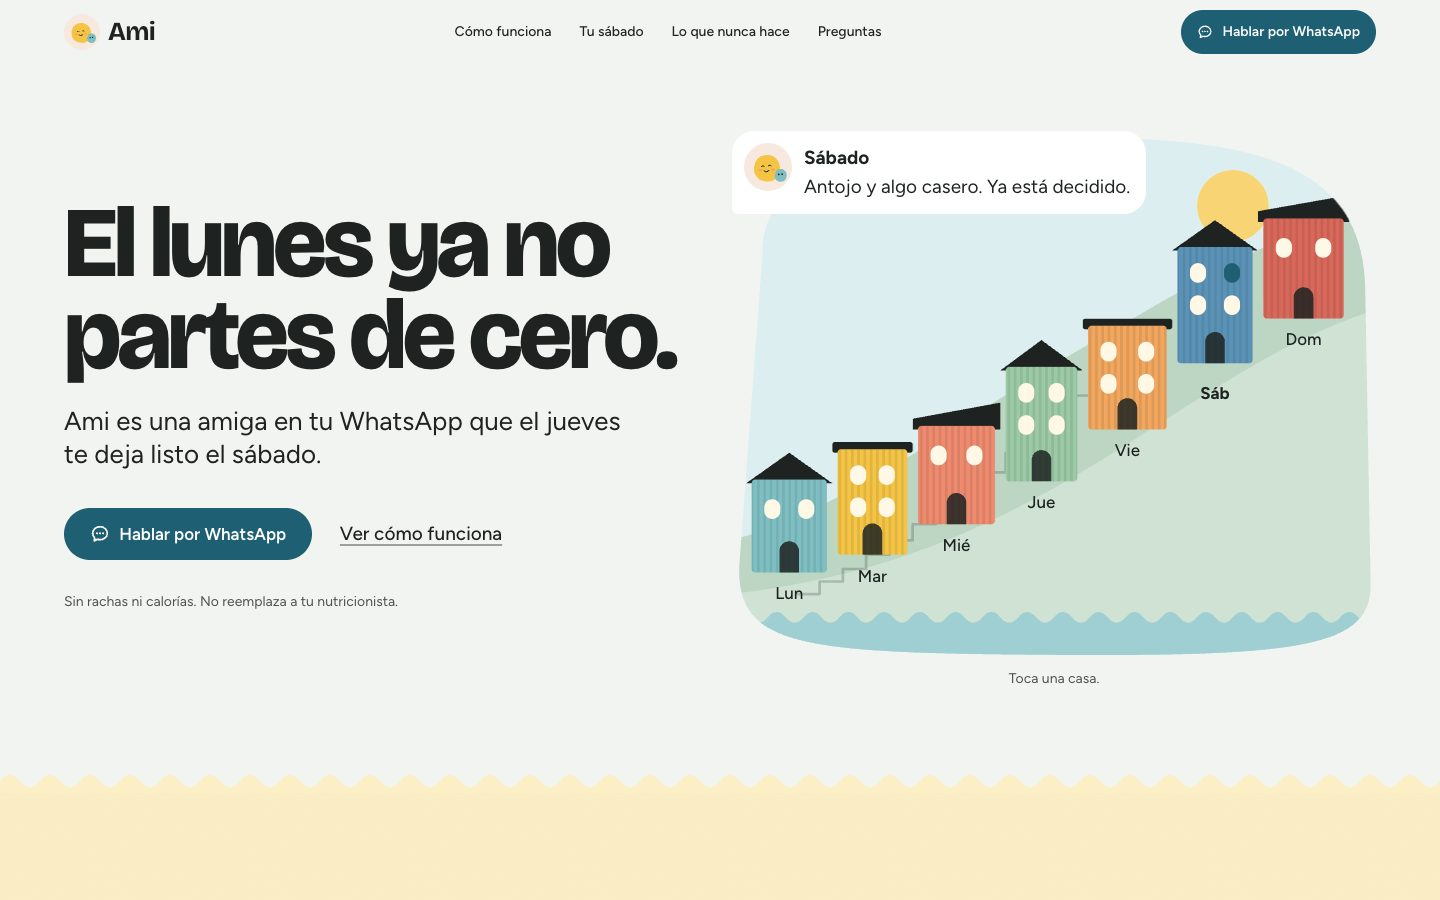
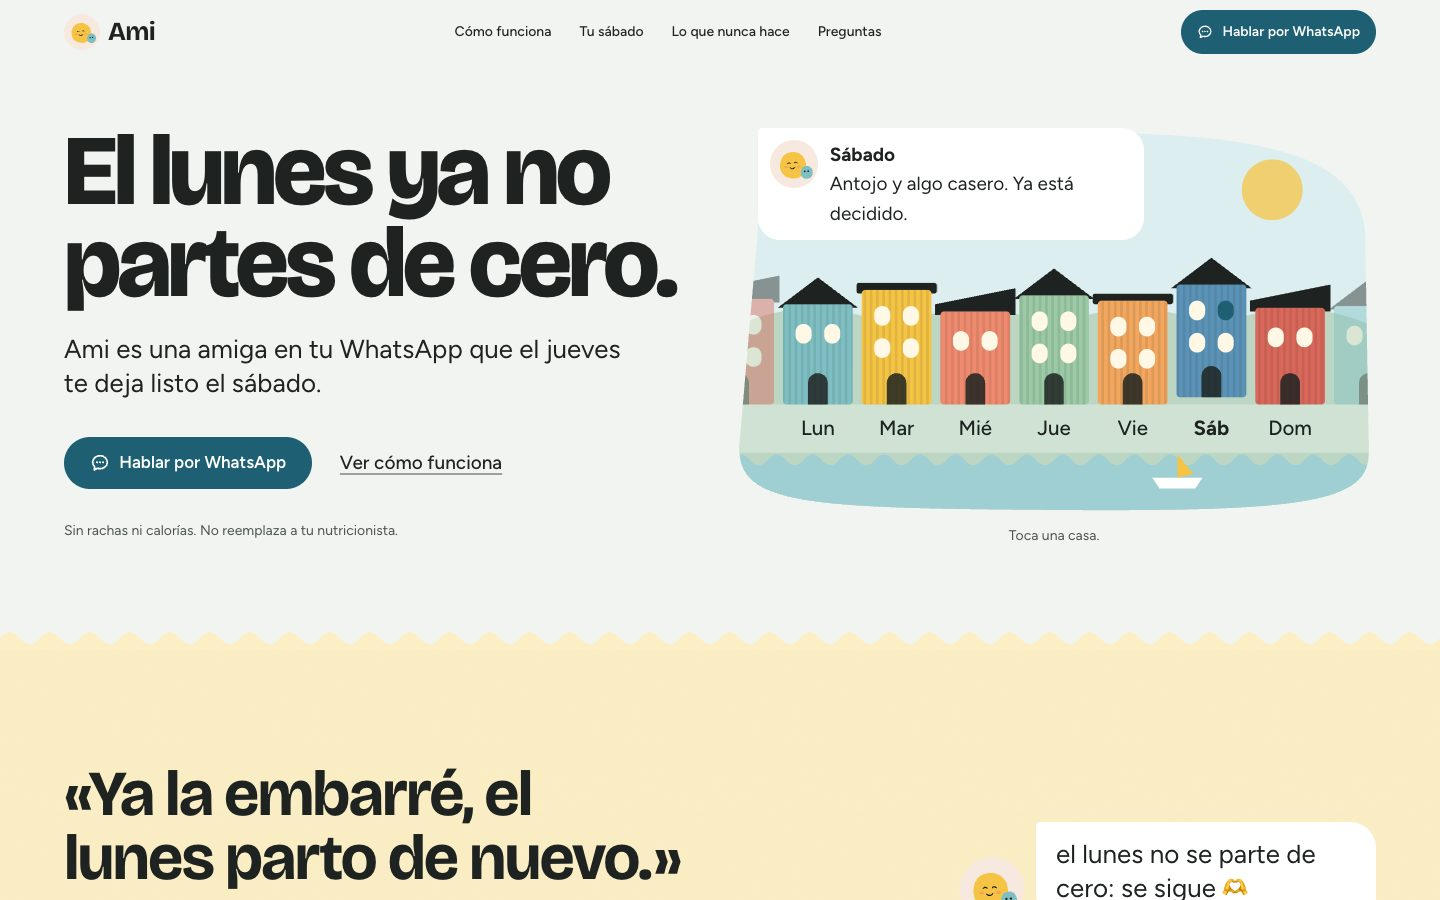
feat(landing): level waterfront week instead of a rising hill
The diagonal hill read as a climb and dropped Sunday back to Monday at
the bottom. Seven houses now sit in a level row by the sea, with
unnamed neighbours at both edges so the week runs on. Sunday's note no
longer frames Monday as a restart.

diff --git a/landing/src/components/BordeCostero.tsx b/landing/src/components/BordeCostero.tsx
@@ -2,8 +2,10 @@ import { useState } from "react";
 import { AvatarAmi } from "./Avatar";
 
 /**
- * La semana como un cerro de Valparaíso: siete casas que suben, una por día.
- * El viernes y el sábado son casas como las otras, y el cerro nunca baja.
+ * La semana como el borde costero de Valparaíso: siete casas en fila, a la
+ * misma altura, frente al mar. No hay subida ni cima: el sábado y el domingo
+ * son casas como las otras, y a los lados asoman casas sin nombre porque la
+ * semana sigue de largo (el domingo pasa al lunes sin salto).
  * Cada casa es un botón: al tocarla dice qué le toca a ese día en el plan.
  */
 type Casa = {
@@ -18,18 +20,26 @@ type Casa = {
   nota: string;
 };
 
+const BASE = 318;
+
 const CASAS: Casa[] = [
-  { dia: "Lunes", corto: "Lun", x: 22, base: 506, ancho: 84, alto: 104, color: "var(--casa-celeste)", techo: "dos-aguas", nota: "Tu pauta, como siempre." },
-  { dia: "Martes", corto: "Mar", x: 118, base: 486, ancho: 78, alto: 118, color: "var(--casa-amarillo)", techo: "plano", nota: "Tu pauta, a tu ritmo." },
-  { dia: "Miércoles", corto: "Mié", x: 208, base: 452, ancho: 86, alto: 110, color: "var(--casa-rosado)", techo: "media", nota: "Tu pauta. Un día normal, y está bien." },
-  { dia: "Jueves", corto: "Jue", x: 306, base: 404, ancho: 80, alto: 128, color: "var(--casa-menta)", techo: "dos-aguas", nota: "Dejas listo el sábado, con la cabeza fresca." },
-  { dia: "Viernes", corto: "Vie", x: 398, base: 346, ancho: 88, alto: 116, color: "var(--casa-naranja)", techo: "plano", nota: "Carrete con tus amigas. Es parte del plan." },
-  { dia: "Sábado", corto: "Sáb", x: 498, base: 282, ancho: 84, alto: 130, color: "var(--casa-azul)", techo: "dos-aguas", nota: "Antojo y algo casero. Ya está decidido." },
-  { dia: "Domingo", corto: "Dom", x: 594, base: 222, ancho: 90, alto: 112, color: "var(--casa-rojo)", techo: "media", nota: "Sigues donde quedaste. No hay cuenta que limpiar." },
+  { dia: "Lunes", corto: "Lun", x: 57, base: BASE, ancho: 78, alto: 112, color: "var(--casa-celeste)", techo: "dos-aguas", nota: "Tu pauta, como siempre." },
+  { dia: "Martes", corto: "Mar", x: 145, base: BASE, ancho: 78, alto: 128, color: "var(--casa-amarillo)", techo: "plano", nota: "Tu pauta, a tu ritmo." },
+  { dia: "Miércoles", corto: "Mié", x: 233, base: BASE, ancho: 78, alto: 104, color: "var(--casa-rosado)", techo: "media", nota: "Tu pauta. Un día normal, y está bien." },
+  { dia: "Jueves", corto: "Jue", x: 321, base: BASE, ancho: 78, alto: 122, color: "var(--casa-menta)", techo: "dos-aguas", nota: "Dejas listo el sábado, con la cabeza fresca." },
+  { dia: "Viernes", corto: "Vie", x: 409, base: BASE, ancho: 78, alto: 116, color: "var(--casa-naranja)", techo: "plano", nota: "Carrete con tus amigas. Es parte del plan." },
+  { dia: "Sábado", corto: "Sáb", x: 497, base: BASE, ancho: 78, alto: 126, color: "var(--casa-azul)", techo: "dos-aguas", nota: "Antojo y algo casero. Ya está decidido." },
+  { dia: "Domingo", corto: "Dom", x: 585, base: BASE, ancho: 78, alto: 108, color: "var(--casa-rojo)", techo: "media", nota: "Un día tranquilo. Mañana sigues igual que siempre." },
+];
+
+/** Casas sin nombre a los lados: la semana sigue antes y después. */
+const VECINAS: Casa[] = [
+  { dia: "", corto: "", x: -31, base: BASE, ancho: 78, alto: 118, color: "var(--casa-rojo)", techo: "media", nota: "" },
+  { dia: "", corto: "", x: 673, base: BASE, ancho: 78, alto: 110, color: "var(--casa-celeste)", techo: "dos-aguas", nota: "" },
 ];
 
 const ANCHO = 720;
-const ALTO = 600;
+const ALTO = 440;
 
 function Techo({ c }: { c: Casa }) {
   const y = c.base - c.alto;
@@ -75,7 +85,7 @@ function Ventanas({ c, encendida }: { c: Casa; encendida: boolean }) {
   );
 }
 
-export function Cerro() {
+export function BordeCostero() {
   const [activa, setActiva] = useState(5);
   const casa = CASAS[activa];
 
@@ -88,41 +98,38 @@ export function Cerro() {
           </pattern>
           {/* La vista recortada como una mancha, no como un rectángulo. */}
           <clipPath id="vista">
-            <path d="M34 150 C 30 60, 150 22, 380 20 C 600 18, 706 56, 708 190 L 714 520 C 714 588, 640 600, 360 598 C 80 596, 6 590, 8 500 Z" />
+            <path d="M30 110 C 28 40, 150 14, 380 14 C 600 14, 704 40, 708 130 L 712 372 C 712 428, 640 438, 360 436 C 80 434, 8 430, 8 366 Z" />
           </clipPath>
         </defs>
 
         <g clipPath="url(#vista)">
           <rect width={ANCHO} height={ALTO} fill="var(--vista)" />
-          {/* Sol de día, luna de noche: el mismo círculo cambia con el tema. */}
-          <circle cx="560" cy="96" r="40" fill="var(--ventana)" />
-          <circle cx="560" cy="96" r="40" fill="var(--casa-amarillo)" opacity="0.7" />
+          <circle cx="604" cy="78" r="34" fill="var(--casa-amarillo)" opacity="0.75" />
 
-          {/* El cerro de atrás y el de adelante. */}
-          <path d="M0 470 C 140 430, 260 330, 400 250 C 520 180, 620 120, 720 96 L720 600 L0 600 Z" fill="var(--cerro-2)" />
-          <path d="M0 530 C 150 512, 260 470, 380 400 C 500 330, 600 250, 720 212 L720 600 L0 600 Z" fill="var(--cerro)" />
-
-          {/* La escalera que sube entre las casas. */}
+          {/* Los cerros de atrás: lomas parejas, ninguna más alta que otra. */}
           <path
-            d="M72 530 h26 v-14 h26 v-14 h26 v-16 h26 v-16 h26 v-18 h26 v-18 h26 v-20 h26 v-20 h26 v-22 h26 v-22 h26 v-20 h26 v-22 h26 v-20 h26 v-18 h26 v-18"
-            fill="none"
-            stroke="var(--tinta)"
-            strokeOpacity="0.22"
-            strokeWidth="3"
-            strokeLinejoin="round"
+            d={`M0 232 ${Array.from({ length: 4 }, (_, k) => `Q${k * 180 + 90} 190 ${k * 180 + 180} 232`).join(" ")} L720 440 L0 440 Z`}
+            fill="var(--cerro-2)"
           />
+
+          {/* El paseo frente al mar, de lado a lado. */}
+          <rect x="0" y={BASE} width={ANCHO} height="54" fill="var(--cerro)" />
+
+          {VECINAS.map((c) => (
+            <g key={c.x} opacity="0.45">
+              <Techo c={c} />
+              <rect x={c.x} y={c.base - c.alto} width={c.ancho} height={c.alto} rx={4} fill={c.color} />
+              <Ventanas c={c} encendida={false} />
+            </g>
+          ))}
 
           {CASAS.map((c, i) => {
             const sel = i === activa;
             return (
-              <g
-                key={c.dia}
-                className="casa-entra"
-                style={{ ["--i" as string]: i }}
-              >
+              <g key={c.dia} className="casa-entra" style={{ ["--i" as string]: i }}>
                 <g
                   style={{
-                    transform: sel ? "translateY(-10px)" : "none",
+                    transform: sel ? "translateY(-8px)" : "none",
                     transition: "transform 380ms var(--ease-salto)",
                   }}
                 >
@@ -131,25 +138,20 @@ export function Cerro() {
                   <rect x={c.x} y={c.base - c.alto} width={c.ancho} height={c.alto} rx={4} fill="url(#calamina)" />
                   <Ventanas c={c} encendida={sel} />
                 </g>
-                <text
-                  x={c.x + c.ancho / 2}
-                  y={c.base + 30}
-                  textAnchor="middle"
-                  fontSize="19"
-                  fontWeight={sel ? 700 : 500}
-                  fill="var(--tinta)"
-                >
+                <text x={c.x + c.ancho / 2} y={c.base + 34} textAnchor="middle" fontSize="23" fontWeight={sel ? 700 : 500} fill="var(--tinta)">
                   {c.corto}
                 </text>
               </g>
             );
           })}
 
-          {/* El mar, con el mismo borde de calamina. */}
+          {/* El mar, con el borde de calamina, y un bote. */}
           <path
-            d={`M0 556 ${Array.from({ length: 19 }, (_, k) => `Q${k * 40 + 10} 544 ${k * 40 + 20} 556 T${k * 40 + 40} 556`).join(" ")} L720 600 L0 600 Z`}
+            d={`M0 380 ${Array.from({ length: 18 }, (_, k) => `Q${k * 40 + 10} 368 ${k * 40 + 20} 380 T${k * 40 + 40} 380`).join(" ")} L720 440 L0 440 Z`}
             fill="var(--mar)"
           />
+          <path d="M470 400h56l-8 12h-40z" fill="var(--superficie)" />
+          <path d="M498 400v-26l18 22z" fill="var(--casa-amarillo)" />
         </g>
       </svg>
 
@@ -169,7 +171,7 @@ export function Cerro() {
               left: `${((c.x - 8) / ANCHO) * 100}%`,
               top: `${((c.base - c.alto - 34) / ALTO) * 100}%`,
               width: `${((c.ancho + 16) / ANCHO) * 100}%`,
-              height: `${((c.alto + 72) / ALTO) * 100}%`,
+              height: `${((c.alto + 78) / ALTO) * 100}%`,
             }}
           />
         ))}
@@ -177,7 +179,7 @@ export function Cerro() {
 
       <figcaption
         aria-live="polite"
-        className="absolute top-[2%] left-0 flex max-w-[66%] items-start gap-3 rounded-[1.4rem] rounded-bl-md bg-superficie py-3 pr-4 pl-3 text-chico sm:text-cuerpo"
+        className="mt-3 flex items-start gap-3 rounded-[4px_22px_22px_22px] bg-superficie py-3 pr-4 pl-3 text-chico sm:absolute sm:top-[2%] sm:left-[4%] sm:mt-0 sm:max-w-[60%] sm:text-cuerpo"
       >
         <AvatarAmi className="size-10 shrink-0 sm:size-12" />
         <span>

diff --git a/landing/src/index.css b/landing/src/index.css
@@ -3,11 +3,10 @@
 @import "@fontsource-variable/figtree";
 
 /* ---------------------------------------------------------------------------
-   «Cerro de calamina»
-   La semana como un cerro de Valparaíso: siete casas de colores, y el finde es
-   una casa más, no un hoyo. Fondo de bruma de puerto, tinta azul bahía, campos
-   del color de las casas y un solo verde para lo que se toca (hablar por
-   WhatsApp, elegir, avanzar). Los bordes ondulados son el perfil de la calamina.
+   «Borde costero»
+   La semana como una fila de casas de Valparaíso frente al mar, todas a la
+   misma altura: el finde es una casa más y la fila sigue de largo. Los bordes
+   ondulados son el perfil de la calamina.
 --------------------------------------------------------------------------- */
 
 :root {

diff --git a/landing/index.html b/landing/index.html
@@ -31,7 +31,7 @@
     <meta property="og:url" content="https://hola-ami.vercel.app/" />
     <meta property="og:image:width" content="1200" />
     <meta property="og:image:height" content="630" />
-    <meta property="og:image:alt" content="Un cerro de Valparaíso con siete casas de colores, una por cada día de la semana." />
+    <meta property="og:image:alt" content="Siete casas de colores de Valparaíso en fila frente al mar, una por cada día de la semana." />
     <meta name="twitter:card" content="summary_large_image" />
   </head>
   <body>

diff --git a/landing/src/components/Portada.tsx b/landing/src/components/Portada.tsx
@@ -1,5 +1,5 @@
 import { NOMBRE, WHATSAPP_URL } from "../config";
-import { Cerro } from "./Cerro";
+import { BordeCostero } from "./BordeCostero";
 import { AvatarAmi } from "./Avatar";
 import { IconoChat } from "./Icono";
 import { Onda } from "./Onda";
@@ -78,7 +78,7 @@ export function Portada() {
           </p>
         </div>
         <div className="lg:col-span-6">
-          <Cerro />
+          <BordeCostero />
           <p className="mt-3 text-center text-chico text-tinta-suave">Toca una casa.</p>
         </div>
       </div>

diff --git a/landing/src/components/Cierre.tsx b/landing/src/components/Cierre.tsx
@@ -3,7 +3,7 @@ import { AvatarAmi } from "./Avatar";
 import { IconoChat } from "./Icono";
 import { Onda } from "./Onda";
 
-/** El cerro vuelve al final, en silueta: siete casas, una por día. */
+/** El borde costero vuelve al final, en silueta: una fila de casas que sigue de largo. */
 const SILUETA = [
   [0, 64, 70],
   [70, 82, 92],

diff --git a/landing/README.md b/landing/README.md
@@ -37,7 +37,7 @@ Ya está creado: el proyecto `ami-landing` en la cuenta personal, enlazado al re
 
 ## Decisiones
 
-- **Concepto «Cerro de calamina».** La semana es un cerro de Valparaíso con siete casas que siempre suben. El viernes y el sábado son casas como las demás, no un hoyo, y el cerro nunca baja: el lunes se sigue, no se parte de cero. Es una imagen, no un marcador de progreso (acordamos no medir progreso acumulado). Los bordes ondulados entre secciones son el perfil de la calamina.
+- **Concepto «Borde costero».** La semana es una fila de siete casas de Valparaíso frente al mar, todas a la misma altura, y a los lados asoman casas sin nombre porque la semana sigue de largo: el domingo pasa al lunes sin salto. Antes era un cerro con las casas subiendo en diagonal («Cerro de calamina»), pero se leía como una montaña que hay que escalar, y del domingo, arriba, se «caía» al lunes, abajo: justo el «parto de cero» que se quiere evitar. Además chocaba con no mostrar progreso. Los bordes ondulados entre secciones son el perfil de la calamina.
 - **La paleta de Ami, solo en claro** (la misma de los mockups): neblina `#F2F4F1` de fondo, tinta `#1E2321`, amarillo ascensor, celeste cerro y rubor como campos, y el azul puerto `#1F5F73` solo en lo que se toca (hablar por WhatsApp, elegir, avanzar).
 - **Letra:** Bricolage Grotesque para el nombre y los títulos, y Figtree para el texto, como en los mockups.
 - **Poco texto, escenas cotidianas:** el corazón de la página son seis escenas de un finde (saliendo de la U, la foto del refri, el completo del carrete, la caña, el sushi con las amigas, la culpa del domingo), cada una con su dibujo. Al tocarla, el chat muestra qué le escribe Ami en ese momento.
